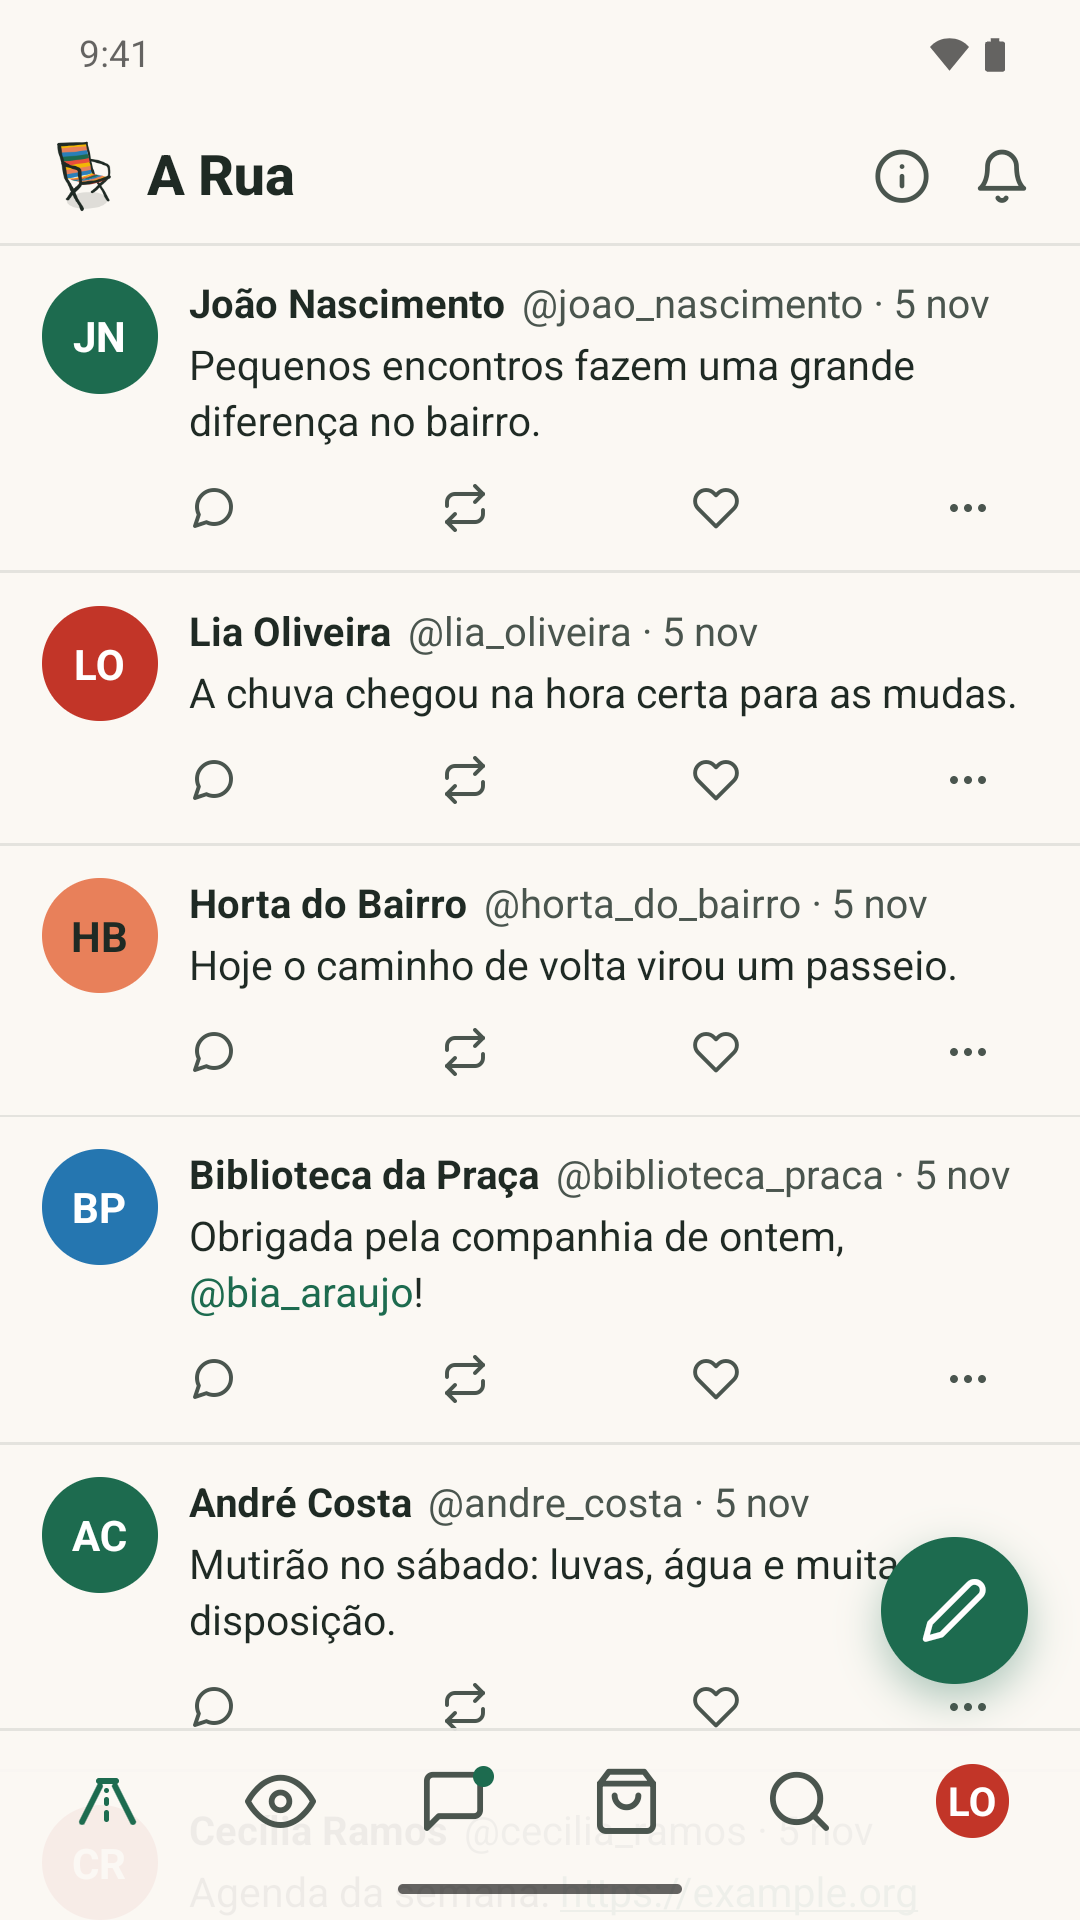
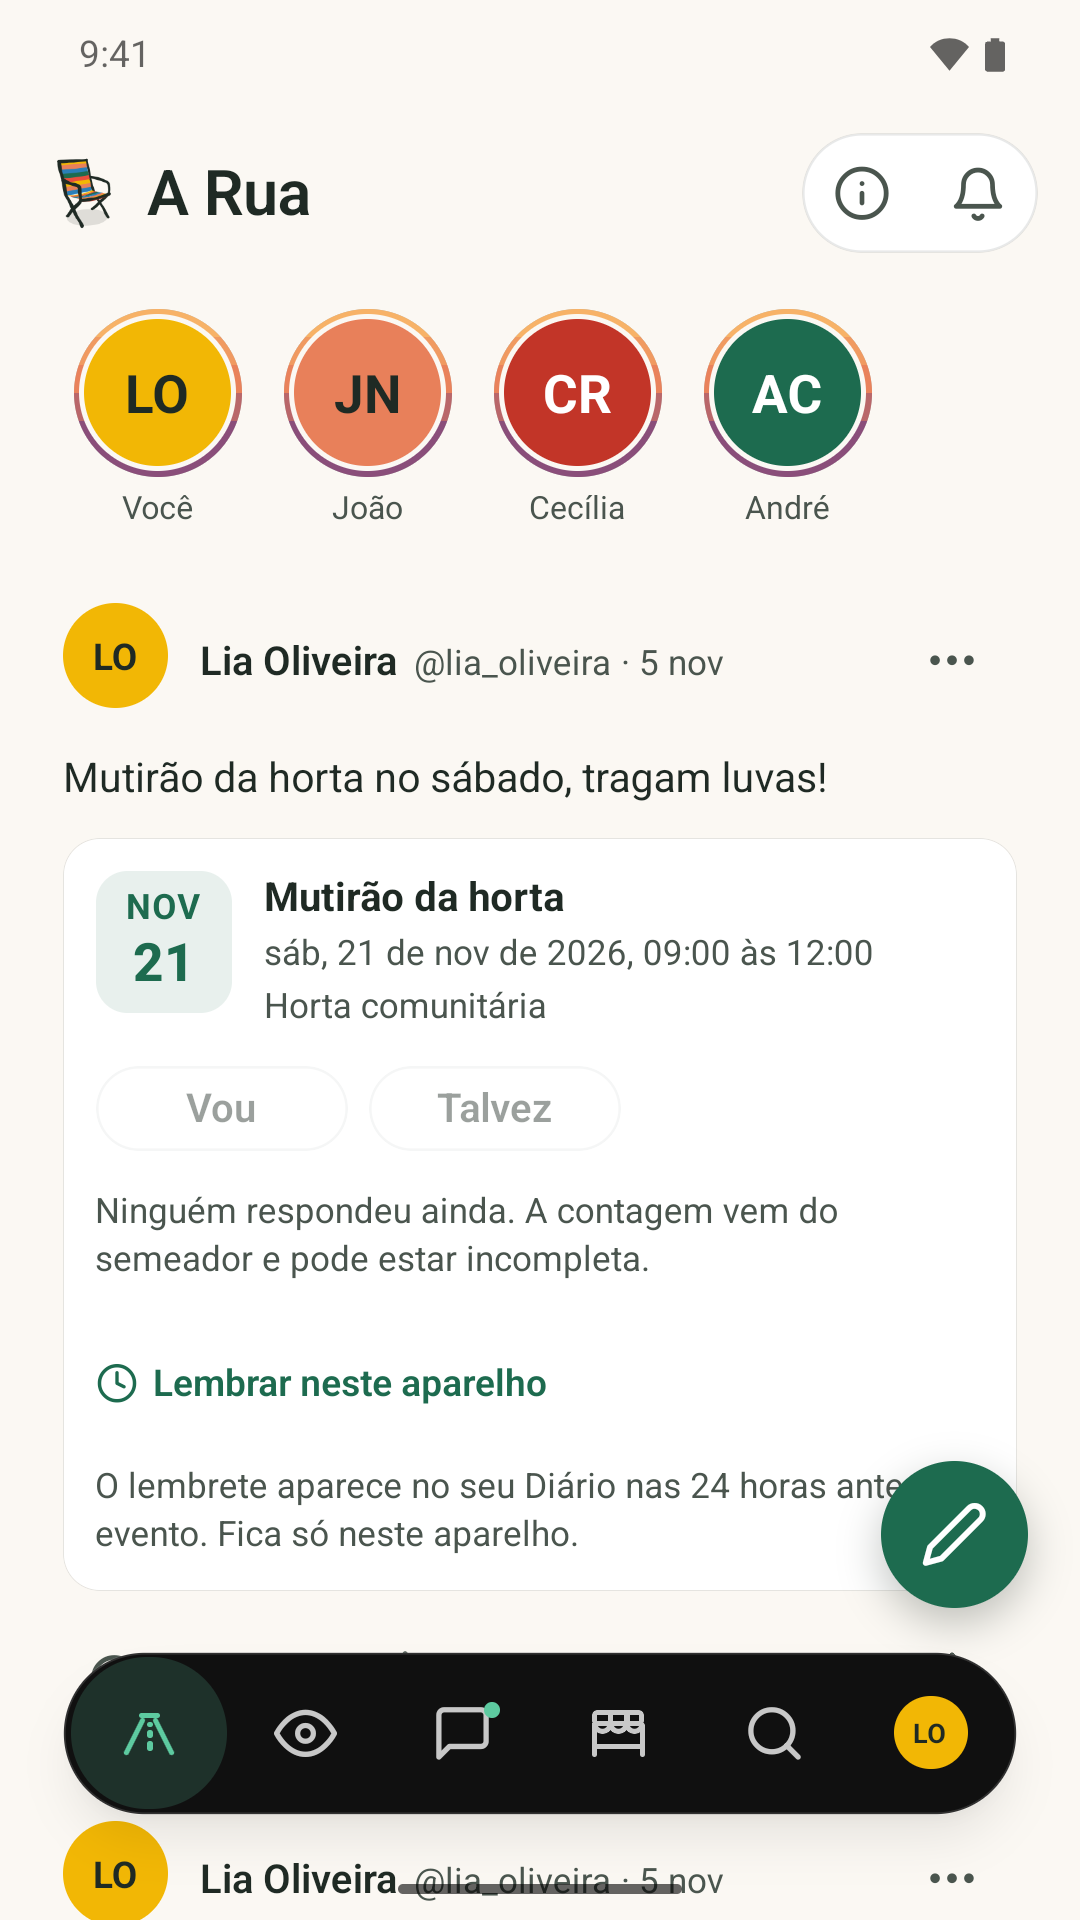
fix: correct deletion and page privacy wording, recapture play screenshots
Deletion without a passkey now says a request with only the @nome
deletes nothing. The listing and the home page no longer say that Page
conversations and private groups can be read once encryption is on. The
legal page test also scans srcset, ping, form and xlink attributes and
refuses mailto and tel links. The four Play screenshots are recaptured
from the current app at 1080x1920.

diff --git a/apps/site/public/excluir-conta/index.html b/apps/site/public/excluir-conta/index.html
@@ -44,7 +44,7 @@
       <p>Se você perdeu o aparelho, entre em outro aparelho com a passkey sincronizada ou com o código de recuperação e peça a exclusão por lá.</p>
       <p>O código do SMS vai para o número, não para o aparelho: quem recuperou o número junto à operadora consegue usar o caminho acima.</p>
       <p>Se você entrou com o Google e nunca confirmou um celular, escreva para contato@varanda.app pelo e-mail da conta. A equipe confere o pedido e agenda a mesma exclusão, com 7 dias de espera.</p>
-      <p>Sem nenhuma passkey, sem o código de recuperação e sem o número confirmado, a conta não pode ser recuperada e a equipe não tem como confirmar que ela é sua. Você ainda pode escrever para contato@varanda.app com o seu @nome. O que acontece com os dados é o mesmo, descrito abaixo.</p>
+      <p>Sem nenhuma passkey e sem o código de recuperação, a conta não pode ser recuperada. Sem o número confirmado e sem o e-mail da conta, a equipe também não tem como conferir o pedido: um pedido só com o @nome não exclui a conta.</p>
       <h2>O que acontece com os seus dados</h2>
       <p>Você pode excluir a conta em Ajustes, na tela Excluir conta, no app e na web hospedada. Para confirmar, você digita o seu @nome e confirma com a passkey. Se o serviço de conta tem a chave pública dessa passkey, ele confere a confirmação e a exclusão acontece na hora. Ele guarda a chave da passkey com que a conta foi criada, quando a conta é criada e vinculada, e a de uma passkey adicionada em Ajustes com a confirmação de uma passkey cuja chave ele já tem. Se não tem (contas criadas antes desse registro, uma passkey adicionada sem essa confirmação ou uma passkey criada com o código de recuperação), a exclusão fica agendada por 7 dias: todos os aparelhos em que você entrou mostram o pedido, chega um aviso se os avisos estiverem ligados, e você pode cancelar de qualquer um deles; depois desse prazo, ela segue como uma exclusão na hora. Na exclusão, o serviço de conta apaga o certificado e os registros do @nome (e o e-mail de quem entrou com o Google), o registro de idade, os aceites destes Termos, os avisos no aparelho, as marcações de visto guardadas para os seus aparelhos, os convites, as passkeys extras, o código de recuperação e as chaves públicas das passkeys, e o app apaga a conta do aparelho. As cópias da triagem automática com o texto das suas publicações, e os precedentes tirados delas, também são apagadas na exclusão (um arquivo corrompido que o serviço separou fica até a operação do servidor apagá-lo). As denúncias sobre a conta, os seus recursos, as imagens e os áudios anexados a essas denúncias e o registro de decisões ligado à conta são apagados 6 meses (180 dias) depois da exclusão ou, se um bloqueio ainda espera a publicação da lista, logo depois dela. Uma denúncia sobre a conta que levou ao bloqueio de um grupo inteiro fica enquanto o grupo estiver bloqueado. Uma denúncia que você fez e que levou a um bloqueio que continua (de uma conta ou de um grupo) fica, sem a sua chave, o seu comentário e a sua assinatura, com o trecho e a imagem ou o áudio que você anexou, enquanto o bloqueio durar. As outras denúncias que você fez são apagadas no mesmo prazo, mas de uma denúncia já decidida sobre uma conta que ainda existe fica só um registro, sem nenhum dado seu, de que a denúncia foi analisada e do que foi decidido; é o que fica também quando aquele bloqueio é desfeito. O número do celular fica lacrado por até 180 dias e então é apagado. O diário sai dos semeadores da associação em até 7 dias, quando a associação publica a lista de moderação assinada; o app avisa quando isso acontecer. O seu @nome fica reservado e nunca vai para outra pessoa, e a mesma chave não pode voltar a ser usada. Quem ainda é dono de uma página precisa encerrá-la ou transferi-la antes. Se você perdeu o aparelho, entre em outro com a passkey sincronizada ou com o código de recuperação e peça a exclusão por lá; sem nenhuma passkey e sem o código, toque em Excluir conta sem a passkey na tela de entrada: digite o seu @nome, o número de celular que você confirmou e o código que enviamos por SMS para ele. Isso só registra um pedido: nada acontece antes de você escrever para contato@varanda.app com o seu @nome. Depois que a operação confirmar o pedido com você, a exclusão fica agendada por 7 dias, como acima, contados a partir daí. Sem celular confirmado (contas que entraram com o Google), escreva para contato@varanda.app pelo e-mail da conta; a operação confere o pedido e agenda a mesma exclusão de 7 dias.</p>
       <p>Excluir a conta, a seu pedido (em Ajustes, pela tela de entrada ou por e-mail) ou por decisão da moderação, bloqueia a chave pública da conta na lista de moderação. Depois disso, os semeadores e apps atualizados apagam e recusam o diário. Mesmo assim, não é possível garantir a exclusão de cópias em apps modificados, em aparelhos que não obedecem à lista, em mensagens já entregues nem em capturas de tela. As comunidades e os grupos criados pela conta deixam de existir para todos os participantes. A exclusão a seu pedido apaga a conta do seu aparelho; o bloqueio pela moderação não apaga o diário do aparelho do autor.</p>

diff --git a/apps/site/public/index.html b/apps/site/public/index.html
@@ -214,7 +214,7 @@
       <details class="faq"><summary>Como minhas publicações circulam?</summary><p>Você publica no seu Diário, assinado no seu aparelho. Quem acompanha você recebe e guarda uma cópia. Os semeadores guardam e entregam cópias quando alguém precisa.</p></details>
       <details class="faq"><summary>O que é a Rua?</summary><p>A tela onde aparecem as publicações de quem você segue, em ordem de chegada, das mais recentes para as mais antigas.</p></details>
       <details class="faq"><summary>O que é o Diário?</summary><p>O seu espaço: o seu perfil e o que você publica, com até 1000 caracteres e até 10 fotos por publicação. Serve para compartilhar o que você vive e o que te toca, sem precisar se exibir. O Diário é público: quem visita o seu perfil vê o que você publica.</p></details>
-      <details class="faq"><summary>O que são as Conversas?</summary><p>É onde ficam as Mensagens e as Comunidades. As Mensagens, com texto, fotos e áudios, são entre duas pessoas e cifradas de ponta a ponta. Quem você ainda não segue chega em Pedidos de mensagem, e você decide se aceita. Nas Comunidades, cada grupo é público ou privado, e a entrada pode ser aberta ou com aprovação. No privado, um administrador sempre aprova quem entra e o que se escreve é cifrado de ponta a ponta. Quem modera a comunidade também recebe a chave e, se uma Página participar do grupo, o serviço de conta da associação também. Participar de uma comunidade é público: a entrada fica registrada no seu diário.</p></details>
+      <details class="faq"><summary>O que são as Conversas?</summary><p>É onde ficam as Mensagens e as Comunidades. As Mensagens, com texto, fotos e áudios, são entre duas pessoas e cifradas de ponta a ponta. Quem você ainda não segue chega em Pedidos de mensagem, e você decide se aceita. Nas Comunidades, cada grupo é público ou privado, e a entrada pode ser aberta ou com aprovação. No privado, um administrador sempre aprova quem entra e o que se escreve é cifrado de ponta a ponta. Quem modera a comunidade também recebe a chave. Participar de uma comunidade é público: a entrada fica registrada no seu diário.</p></details>
       <details class="faq"><summary>A Varanda usa algoritmos?</summary><p>A Rua não usa algoritmo de engajamento: as publicações de quem você segue aparecem em ordem de chegada. A Espiadinha mostra a publicação mais recente de cada diário que você não segue, depois a segunda e a terceira de cada um, sem curtidas, sem sugestões e sem pesos escondidos.</p></details>
       <details class="faq"><summary>Quem pode participar?</summary><p>Pessoas com 16 anos ou mais. A entrada é pelo navegador, em bora.varanda.app: você cria uma chave de acesso (passkey) no próprio aparelho, confirma a idade com um serviço parceiro e escolhe um @nome, que é liberado ao confirmar um celular brasileiro por SMS. Nesta abertura as vagas são limitadas.</p></details>
       <details class="faq"><summary>Como funciona a segurança e a moderação?</summary><p>As mensagens privadas entre duas pessoas são cifradas de ponta a ponta. Dá para denunciar uma publicação ou uma conta, e a associação analisa as denúncias. O perfil, o @nome, as publicações do Diário e quem você segue são públicos: a Varanda não é uma rede anônima.</p></details>
@@ -231,7 +231,7 @@
         <li>Cada publicação de uma pessoa é assinada no aparelho de quem publica; a identidade é a chave pública do Diário. Uma Página (diário de um negócio ou projeto) é assinada por uma chave que fica no serviço de conta da associação.</li>
         <li>Seguir é guardar uma cópia do diário. Os nós completos (linha de comando) também trocam cópias entre si por Hyperswarm; o app web de bora.varanda.app sincroniza só com o semeador.</li>
         <li>Semeadores guardam e entregam diários. Um semeador da associação só guarda diários com certificado de membro.</li>
-        <li>As Conversas pessoais são entre duas pessoas e cifradas de ponta a ponta. As mensagens de uma Página, e as publicações dela em grupos privados, podem ser lidas pelo serviço de conta.</li>
+        <li>As Conversas pessoais são entre duas pessoas e cifradas de ponta a ponta. As Conversas de uma Página são cifradas de ponta a ponta depois que o dono as ativa; antes disso, e nos casos que os Termos descrevem, o serviço de conta da associação pode lê-las.</li>
         <li>A entrada desta abertura é o aplicativo web em bora.varanda.app, que se instala como PWA. Ainda não está nas lojas.</li>
         <li>Idade mínima de 16 anos. Na web hospedada, a confirmação de idade é feita por um serviço parceiro, a Didit, e o @nome é liberado pela confirmação de um celular brasileiro por SMS.</li>
         <li>O código-fonte está disponível sob a <a href="https://github.com/Varanda-org/varanda/blob/main/LICENSE" rel="noopener">PolyForm Noncommercial 1.0.0</a>, que permite usos não comerciais nos termos da licença. Usos comerciais não abrangidos por ela exigem autorização prévia do licenciante.</li>

diff --git a/apps/site/test/legal.test.js b/apps/site/test/legal.test.js
@@ -97,13 +97,45 @@ test('legal pages: language, forbidden elements, CSP and images', (t) => {
   }
 })
 
+const URL_ATTR = /[\s"'/](?:href|xlink:href|src|srcset|action|formaction|poster|data|ping)\s*=\s*("[^"]*"|'[^']*'|[^\s"'>]+)/gi
+const URL_ATTR_NAME = /^[\s"'/](href|xlink:href|src|srcset|action|formaction|poster|data|ping)\s*=/i
+
 function urlsOf (source) {
   const urls = []
-  for (const m of source.matchAll(/\s(?:href|src)="([^"]*)"/g)) urls.push(m[1])
+  for (const m of source.matchAll(URL_ATTR)) {
+    const value = m[1].replace(/^["']|["']$/g, '')
+    const name = URL_ATTR_NAME.exec(m[0])[1].toLowerCase()
+    if (name === 'srcset') {
+      for (const part of value.split(',')) urls.push(part.trim().split(/\s+/)[0])
+    } else if (name === 'ping') {
+      for (const part of value.split(/\s+/)) if (part) urls.push(part)
+    } else urls.push(value)
+  }
   return urls
 }
 
 const isAbsolute = (u) => /^([a-z][a-z0-9+.-]*:|\/\/)/i.test(u)
+
+test('legal pages: every URL is relative or https, with no mailto, tel or target', (t) => {
+  for (const page of ALL_PAGES) {
+    const html = read(page)
+    for (const u of urlsOf(html)) t.ok(!isAbsolute(u) || u.startsWith('https://'), page.dir + ': relative or https: ' + u)
+    t.absent(/["'=\s](?:mailto|tel):/i.test(html), page.dir + ': no mailto or tel')
+    t.absent(/[\s"'/](?:form)?target\s*=/i.test(html), page.dir + ': no target or formtarget')
+    t.absent(/<meta[^>]*http-equiv\s*=\s*["']?refresh/i.test(html), page.dir + ': no meta refresh')
+  }
+})
+
+test('legal pages: every attribute value is double-quoted', (t) => {
+  for (const page of ALL_PAGES) {
+    const odd = []
+    for (const tag of read(page).matchAll(/<[a-z][^>]*>/gi)) {
+      const rest = tag[0].replace(/"[^"]*"/g, '""')
+      if (/[\s"'/][^\s"'/=>]+\s*=\s*(?:'|[^"\s>])/.test(rest)) odd.push(tag[0].slice(0, 80))
+    }
+    t.alike(odd, [], page.dir + ': no single-quoted or unquoted attribute value')
+  }
+})
 
 test('legal pages: local URLs are relative, resolve under public/, and fragments hit an id', (t) => {
   for (const page of ALL_PAGES) {

diff --git a/apps/site/scripts/render-legal.js b/apps/site/scripts/render-legal.js
@@ -101,7 +101,7 @@ const INFO_PAGES = [
         '      <p>Se você perdeu o aparelho, entre em outro aparelho com a passkey sincronizada ou com o código de recuperação e peça a exclusão por lá.</p>',
         '      <p>O código do SMS vai para o número, não para o aparelho: quem recuperou o número junto à operadora consegue usar o caminho acima.</p>',
         '      <p>Se você entrou com o Google e nunca confirmou um celular, escreva para ' + CONTACT + ' pelo e-mail da conta. A equipe confere o pedido e agenda a mesma exclusão, com 7 dias de espera.</p>',
-        '      <p>Sem nenhuma passkey, sem o código de recuperação e sem o número confirmado, a conta não pode ser recuperada e a equipe não tem como confirmar que ela é sua. Você ainda pode escrever para ' + CONTACT + ' com o seu @nome. O que acontece com os dados é o mesmo, descrito abaixo.</p>',
+        '      <p>Sem nenhuma passkey e sem o código de recuperação, a conta não pode ser recuperada. Sem o número confirmado e sem o e-mail da conta, a equipe também não tem como conferir o pedido: um pedido só com o @nome não exclui a conta.</p>',
         '      <h2>O que acontece com os seus dados</h2>',
         '      <p>' + linked(ajustes) + '</p>',
         '      <p>' + linked(pedido) + '</p>',

diff --git a/apps/site/artwork/screens.md b/apps/site/artwork/screens.md
@@ -151,7 +151,7 @@ The account service reserves the @handles of the people and pages above (`RESERV
 
 ## Google Play phone screenshots (Android)
 
-The four screens above are also captured on Android for the Google Play listing, in `apps/site/artwork/play/screens/` (`a-rua.png`, `diario.png`, `conversas.png`, `conversa.png`). Play wants JPEG or 24-bit PNG without alpha, 320 to 3840 px, long side at most twice the short side. They are 1080x1920, colour type 2, each under 8 MB. The Android Vitrine shows the same fictional people (the lists above apply), but the feed order and the posts differ a little from iOS: A Rua opens on text posts, and the Diário shows Lia Oliveira's text post and her quote of Cecília Ramos.
+The four screens above are also captured on Android for the Google Play listing, in `apps/site/artwork/play/screens/` (`a-rua.png`, `diario.png`, `conversas.png`, `conversa.png`). Play wants JPEG or 24-bit PNG without alpha, 320 to 3840 px, long side at most twice the short side. They are 1080x1920, colour type 2, each under 8 MB. The Android Vitrine shows the same fictional people (the lists above apply), but the feed order and the posts differ a little from iOS. Since the 2026-11-20 recapture, A Rua opens on Lia Oliveira's event post (Mutirão da horta), and the Diário shows her profile (bio, 5 seguindo, 4 seguidores, 3 fãs, Sorte do dia, Melhores amigos) down to "Seus momentos", not her posts.
 
 Recipe, from the repository root, light theme, with `JAVA_HOME` set to JDK 17 and `ANDROID_HOME` and `platform-tools` on the `PATH` (see "Android" in `docs/development.md`):
 
@@ -168,11 +168,15 @@ Recipe, from the repository root, light theme, with `JAVA_HOME` set to JDK 17 an
 2. Start Metro with the Vitrine from `apps/app`, never in `app.json`, `eas.json` or a build config (`apps/app/test/hardening.test.js`). If port 8081 is taken by another session, use 8082 and leave that session's Metro and `adb reverse` alone:
 
    ```sh
-   EXPO_PUBLIC_VARANDA_VITRINE=1 CI=1 npx expo start --localhost --port 8081
+   EXPO_PUBLIC_VARANDA_VITRINE=1 CI=1 npx expo start --port 8081
    adb reverse tcp:8081 tcp:8081
    ```
 
    On 8082, run `adb reverse tcp:8082 tcp:8082` and give the Debug app that address through the `debug_http_host` preference of `app.varanda.debug` (`run-as`), then remove it after the capture.
+
+   Do not start Metro with `--localhost`: it then listens only on `[::1]`, which `adb reverse` cannot reach. If it must, forward `127.0.0.1:8081` to `[::1]:8081` instead.
+
+   If the APK lacks a native module (for example "RNCWebViewModule could not be found"), delete `apps/app/android/build/generated/autolinking/` and run `assembleDebug` again.
 
 3. Set the screen to 1080x1920 and clean the status bar (no notification icons, 9:41, full wifi and battery), then open the app. Dismiss the "Open debugger to view warnings" toast (its X) so no developer banner shows:
 
@@ -209,13 +213,13 @@ Recipe, from the repository root, light theme, with `JAVA_HOME` set to JDK 17 an
 
    Then run `node apps/site/test/play-screens.test.js`.
 
-Checksums (sha256) of the captures, captured on 2026-11-08 on `varanda-api36` (Android 16, 1080x2400 reset to 1080x1920 for the capture):
+Checksums (sha256) of the captures, captured on 2026-11-20 at commit `78ceabfb` on `varanda-api36` (Android 16, 1080x2400 reset to 1080x1920 for the capture):
 
 | File | Bytes | sha256 |
 |---|---|---|
[8 lines of base64/hex data omitted]
 
 Conversas ends in a conversation row under the tab bar, and A Rua in a post under it, the way a list looks while you scroll.

diff --git a/docs/verification/feat-play-store-pages.md b/docs/verification/feat-play-store-pages.md
@@ -11,6 +11,7 @@ Só site e texto da ficha. Sem mudança de RPC, formato ou Termos. As páginas `
 - Segurança infantil: proibições, denúncia e parágrafo de Contato, sem prometer nada além dos Termos.
 - `apps/site/artwork/play/listing.pt-BR.json` e `apps/site/test/play-listing.test.js` (30, 80 e 4000 caracteres, URLs https://varanda.app/, sem travessão).
 - Orçamento de tamanho de `public/` em `site.test.js` subiu de 837000 para 1058000 bytes (medido 846273 depois do merge e das duas páginas).
+- Correções da auditoria: a página de exclusão (texto sobre recuperação e sobre pedido só com @nome), o FAQ e a lista técnica da página inicial, a frase da ficha do Play sobre conversas de Página e os testes de URL mais rígidos em `legal.test.js`.
 
 ## Testes
 
@@ -35,3 +36,11 @@ Procedimentos operacionais que a página de segurança infantil não afirma e qu
 
 - [ ] As duas páginas em 390 px de largura, num servidor local do site
 - [ ] Depois do deploy do site: os três endereços respondem 200 sem entrar em conta, e o pedido de exclusão por e-mail funciona de ponta a ponta
+
+## Capturas da ficha
+
+- [x] As quatro telas (`a-rua.png`, `diario.png`, `conversas.png`, `conversa.png`) foram recapturadas em 2026-11-20 no commit `78ceabfb`, no AVD `varanda-api36` (Android 16, 1080x2400 redimensionado para 1080x1920, tema claro, barra de status demo 9:41), com o app de debug (`app.varanda.debug`) feito neste worktree e o Vitrine servido pelo Metro (`--clear`, porta 8081, `EXPO_PUBLIC_VARANDA_VITRINE=1`). Só conteúdo fictício do Vitrine. Achatadas com `apps/site/scripts/flatten-png.js` (1080x1920, RGB opaco). A tabela de checksums de `apps/site/artwork/screens.md` foi atualizada.
+- Tropeços desta captura, para quem repetir: (1) o `node_modules` do worktree estava atrás do `package-lock.json` (faltavam `expo-task-manager` e outros quatro), o que o `npm ci --ignore-scripts` resolveu; (2) o Gradle reaproveitou `apps/app/android/build/generated/autolinking/autolinking.json` da primeira compilação e deixou `react-native-webview` fora do APK (erro `RNCWebViewModule could not be found`): apague essa pasta e rode o `assembleDebug` de novo; (3) o Metro com `--localhost` escuta só em `[::1]` e o `adb reverse` não o alcança (app mostra "Unable to load script"): um repasse TCP de `127.0.0.1:8081` para `[::1]:8081` resolveu; (4) o AVD tinha `debug_http_host=localhost:8103` nas preferências do app de debug (sobra de outra sessão): foi removido para a captura.
+- O Diário no Android agora mostra o perfil (bio, contagens, Sorte do dia, Melhores amigos) até "Seus momentos", e não os posts dela; A Rua abre no post de evento "Mutirão da horta". Vale o dono decidir se prefere outra rolagem do Diário.
+- Estado restaurado: demo mode desligado, `wm size reset`, `adb reverse` removido, emulador, Metro, repasse e daemon do Gradle parados.
+- [ ] O dono compara as quatro imagens com o build que vai para a revisão antes de enviá-las.
